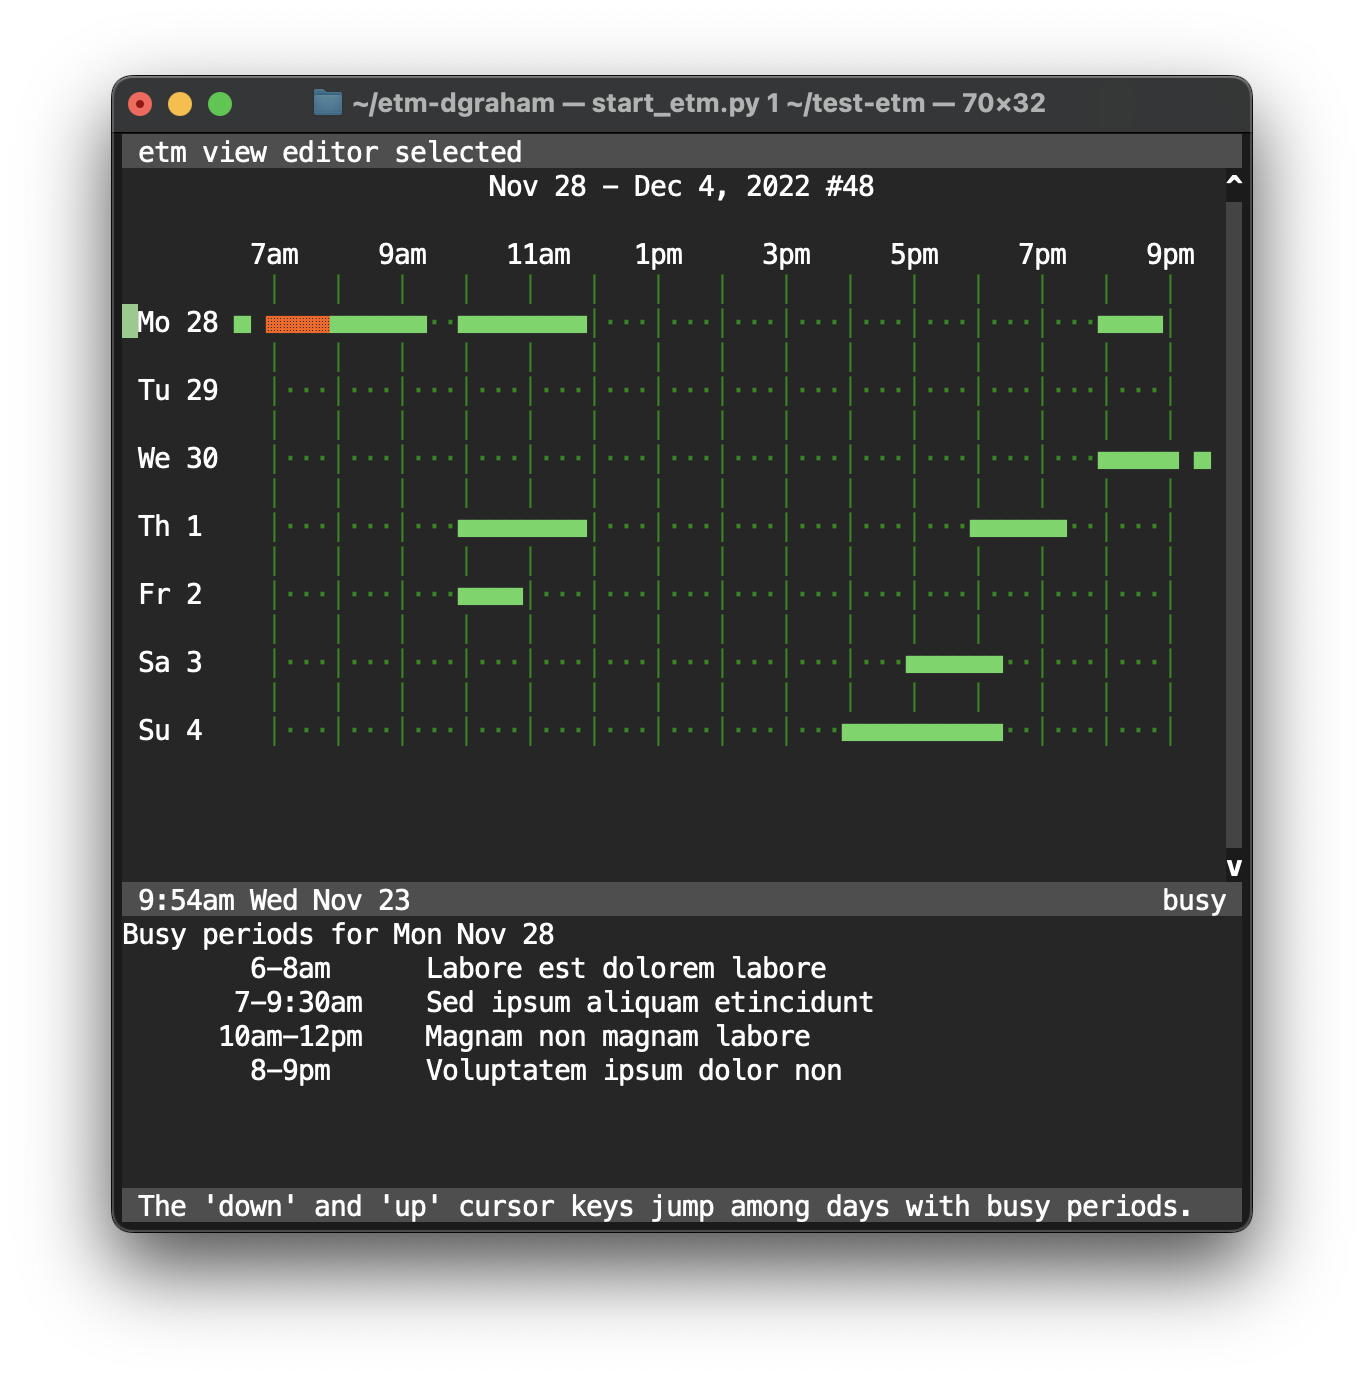
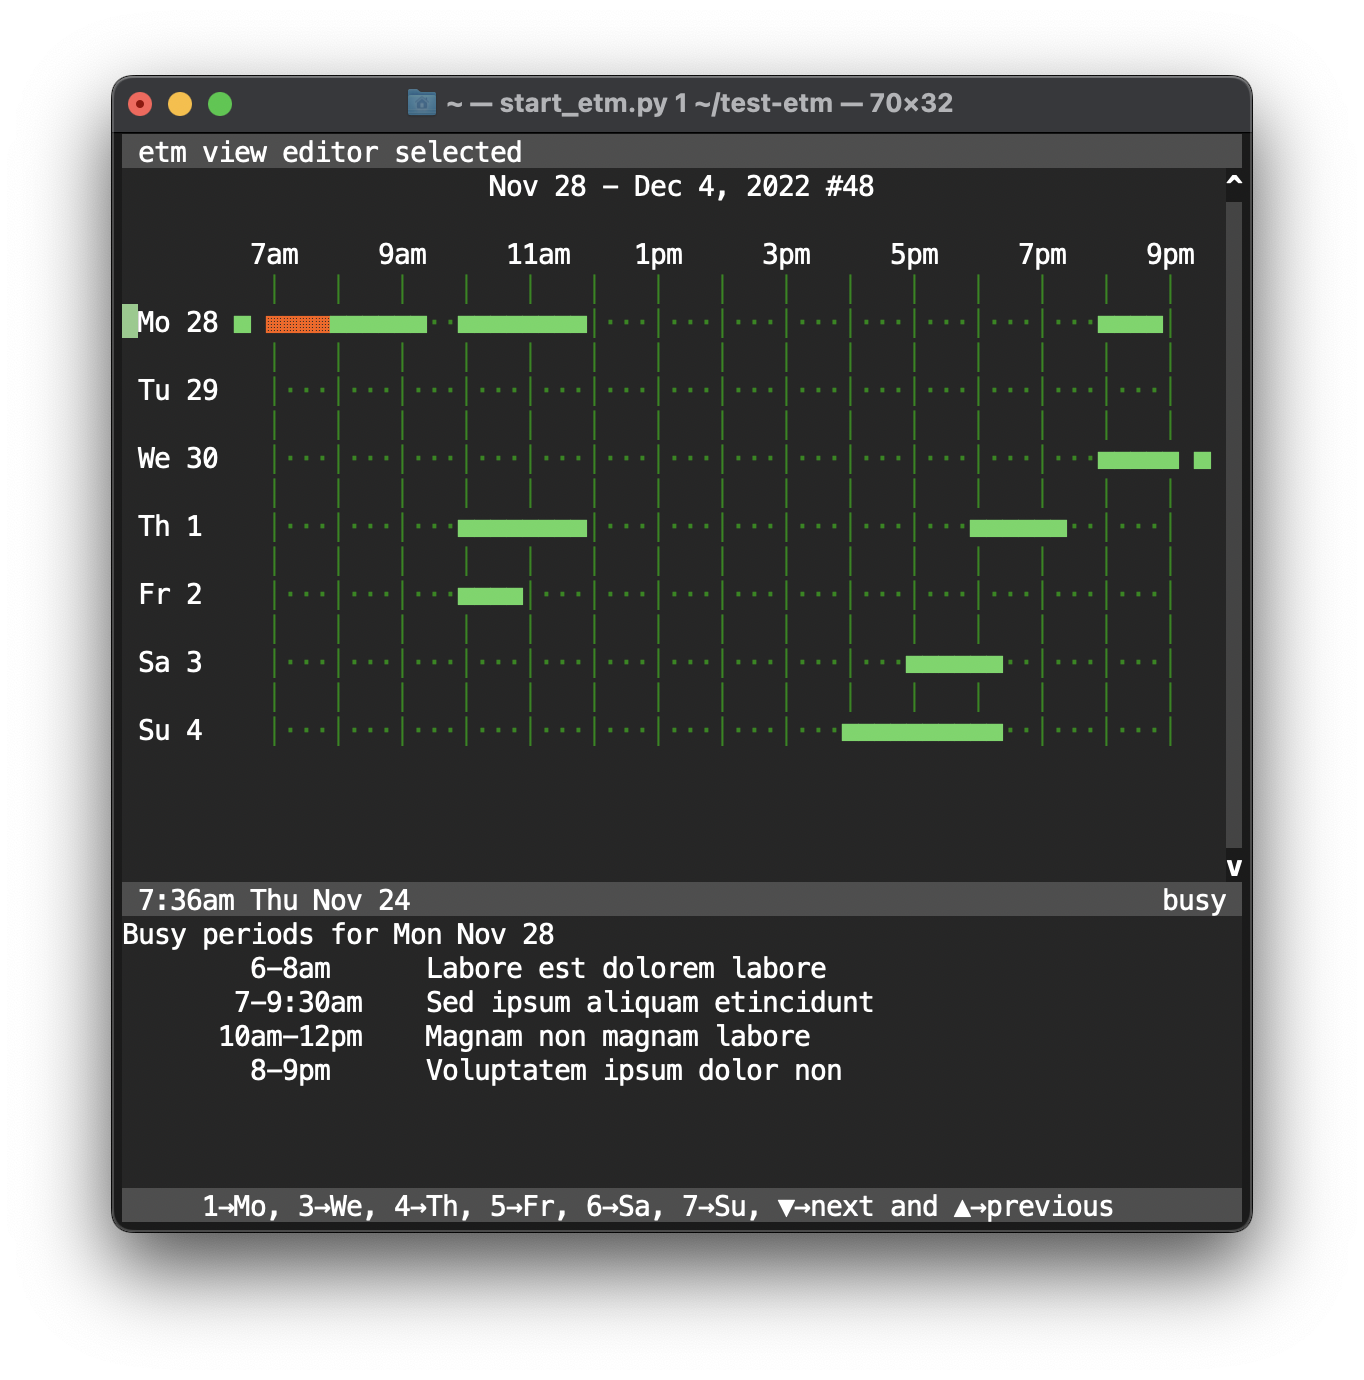
Busy view tweaks. Added hot keys for weekday numbers. Use locale appropriate weekday abbreviations.

diff --git a/etm/view.py b/etm/view.py
@@ -473,7 +473,7 @@ class ETMQuery(object):
     def info(self, a):
         # field 'a' exists
         item = dataview.db.get(doc_id=int(a))
-        return  f"{item_details(item, False)}"
+        return  item if item else f"doc_id {a} not found"
 
 
     def dt(self, a, b):
@@ -556,7 +556,6 @@ class ETMQuery(object):
             if not ok:
                 return False, test
             if isinstance(test, str):
-                # info
                 return False, test
             else:
                 items = dataview.db.search(test)
@@ -1415,7 +1414,7 @@ async def event_handler():
             if dataview.active_view == 'timers':
                 set_text(dataview.show_active_view())
             asyncio.ensure_future(save_timers())
-            logger.debug(f"sleeping for {wait} seconds in event_handler loop")
+            # logger.debug(f"sleeping for {wait} seconds in event_handler loop")
             get_app().invalidate()
             await asyncio.sleep(wait)
     except asyncio.CancelledError:
@@ -1477,12 +1476,12 @@ def get_statusbar_right_text():
 def openWithDefault(path):
     parts = [x.strip() for x in path.split(" ")]
     if len(parts) > 1:
-        logger.debug(f"path: {path}")
+        # logger.debug(f"path: {path}")
         res =subprocess.Popen([parts[0], ' '.join(parts[1:])], stdout=subprocess.DEVNULL, stderr=subprocess.DEVNULL)
         ok = True if res else False
     else:
         path = os.path.normpath(os.path.expanduser(path))
-        logger.debug(f"path: {path}")
+        # logger.debug(f"path: {path}")
         sys_platform = platform.system()
         if platform.system() == 'Darwin':       # macOS
             res = subprocess.run(('open', path), stdout=subprocess.DEVNULL, stderr=subprocess.DEVNULL)
@@ -1494,7 +1493,7 @@ def openWithDefault(path):
         # res = subprocess.run([cmd, path], check=True)
         ret_code = res.returncode
         ok = ret_code == 0
-        logger.debug(f"res: {res}; ret_code: {ret_code}")
+        # logger.debug(f"res: {res}; ret_code: {ret_code}")
     if ok:
         logger.debug(f"ok True; res: '{res}'")
     else:
@@ -1602,16 +1601,41 @@ busy_area = TextArea(
 
 width = shutil.get_terminal_size()[0] - 2
 # busy_times = "Use '⇧ ⇾' and '⇧ ⇽' to jump among the days with busy times.".center(width, ' ')
-busy_times = "The 'down' and 'up' cursor keys jump among days with busy periods.".center(width, ' ')
-no_busy_times = "There are no days with busy periods in this week.".center(width, ' ')
+# busy_times = "The 'down' and 'up' cursor keys jump among days with busy periods.".center(width, ' ')
 
 def get_busy_text():
-    return busy_times if dataview.busy_details else no_busy_times
+    return get_busy_text_and_keys(0)
+
+def get_busy_keys():
+    return get_busy_text_and_keys(1)
+
+def get_busy_text_and_keys(n):
+
+    weekdays = {
+            5:  f"1→{WA[1]}",
+            7:  f"2→{WA[2]}",
+            9:  f"3→{WA[3]}",
+            11: f"4→{WA[4]}",
+            13: f"5→{WA[5]}",
+            15: f"6→{WA[6]}",
+            17: f"7→{WA[7]}",
+            }
+    busy_details = dataview.busy_details
+    active_days = "  ".join([v for k, v in weekdays.items() if k in busy_details.keys()])
+    no_busy_times = "There are no days with busy periods this week.".center(width, ' ')
+    busy_times = wrap(f"Press the number of a weekday, [{weekdays[5]}, ..., {weekdays[17]}], to show the details of the busy periods from that day or press the ▼ (down) or ▲ (up) cursor keys to show the details of the next or previous day with busy periods.", indent=0)
+    # active_keys = f"active keys: {active_days}, ⬆  ▲ and ⬇ ".center(width, ' ')
+    active_keys = f"{active_days}  ▼→next  ▲→previous".center(width, ' ')
+
+    if n == 0: # text
+        return busy_times if dataview.busy_details else ""
+    else: # n=1, keys
+        return active_keys if dataview.busy_details else no_busy_times
 
 
 busy_container = HSplit([
     busy_area,
-    Window(FormattedTextControl(get_busy_text), style='class:status', height=1),
+    Window(FormattedTextControl(get_busy_keys), style='class:status', height=1),
     ], style='class:entry')
 
 query_bindings = KeyBindings()
@@ -2348,6 +2372,8 @@ def busy_view(*event):
     if dataview.busy_row:
         text_area.buffer.cursor_position = \
             text_area.buffer.document.translate_row_col_to_index(dataview.busy_row-1, 0)
+    else:
+        busy_area.text = get_busy_text()
 
 @bindings.add('c', filter=is_viewing)
 def completed_view(*event):
@@ -2425,6 +2451,53 @@ def set_view(view):
     item.use_items()
     set_text(dataview.show_active_view())
 
+def get_busy_day(d):
+    busy_details = dataview.busy_details
+    # logger.debug(f"d: {d}; {busy_details.keys()}")
+    r = 5 + 2*(d-1)
+    if not r in busy_details.keys():
+        return
+    # logger.debug(f"details: {d}->{r} {busy_details.get(r, '')}")
+    text_area.buffer.cursor_position = \
+        text_area.buffer.document.translate_row_col_to_index(r-1, 0)
+    busy_area.text = busy_details.get(r, get_busy_text())
+    dataview.busy_row = r
+
+
+@bindings.add('1', filter=is_busy_view & is_viewing)
+def get_busy_1(*event):
+    get_busy_day(1)
+
+
+@bindings.add('2', filter=is_busy_view & is_viewing)
+def get_busy_1(*event):
+    get_busy_day(2)
+
+
+@bindings.add('3', filter=is_busy_view & is_viewing)
+def get_busy_1(*event):
+    get_busy_day(3)
+
+
+@bindings.add('4', filter=is_busy_view & is_viewing)
+def get_busy_1(*event):
+    get_busy_day(4)
+
+
+@bindings.add('5', filter=is_busy_view & is_viewing)
+def get_busy_1(*event):
+    get_busy_day(5)
+
+
+@bindings.add('6', filter=is_busy_view & is_viewing)
+def get_busy_1(*event):
+    get_busy_day(6)
+
+
+@bindings.add('7', filter=is_busy_view & is_viewing)
+def get_busy_1(*event):
+    get_busy_day(7)
+
 
 @bindings.add('down', filter=is_busy_view & is_viewing)
 def next_busy(*event):
@@ -2441,7 +2514,7 @@ def next_busy(*event):
             break
     text_area.buffer.cursor_position = \
         text_area.buffer.document.translate_row_col_to_index(next_row-1, 0)
-    busy_area.text = busy_details.get(next_row, '')
+    busy_area.text = busy_details.get(next_row, get_busy_text())
     dataview.busy_row = next_row
 
 
@@ -2460,7 +2533,7 @@ def previous_busy(*event):
             break
     text_area.buffer.cursor_position = \
         text_area.buffer.document.translate_row_col_to_index(next_row-1, 0)
-    busy_area.text = busy_details.get(next_row, '')
+    busy_area.text = busy_details.get(next_row, "")
     dataview.busy_row = next_row
 
 
@@ -2536,7 +2609,7 @@ def nextweek(*event):
     dataview.nextYrWk()
     dataview.busy_row = 0
     busy_details = dataview.busy_details
-    busy_area.text = ""
+    busy_area.text = '' # get_busy_text()
     # if busy_details:
     #     busy_area.text = busy_times
     # else:
@@ -2549,7 +2622,7 @@ def prevweek(*event):
     dataview.prevYrWk()
     dataview.busy_row = 0
     busy_details = dataview.busy_details
-    busy_area.text = ""
+    busy_area.text = '' # get_busy_text()
     # if busy_details:
     #     busy_area.text = busy_times
     # else:

diff --git a/etm/__main__.py b/etm/__main__.py
@@ -85,6 +85,7 @@ def main():
     logger.debug(f"ETMDB: {ETMDB}")
 
     from etm.model import about
+    from etm.model import wrap
     from etm.model import import_file
     from etm.model import write_back
     # from etm.model import RDict
@@ -139,6 +140,8 @@ def main():
 
 
     import etm.view as view
+    view.wrap = wrap
+    view.WA = WA
     view.beginbusy = beginbusy
     view.FINISHED_CHAR = FINISHED_CHAR
     view.UPDATE_CHAR = UPDATE_CHAR
@@ -164,7 +167,6 @@ def main():
     view.etmhome = etmhome
     view.datetime_calculator = datetime_calculator
     view.about = about
-    view.wrap = model.wrap
     view.format_time = format_time
     view.format_datetime = format_datetime
     view.format_duration = format_duration

diff --git a/utilities/make_examples.py b/utilities/make_examples.py
@@ -82,7 +82,6 @@ for _ in range(num_konnections):
     konnections.append(f"@k {client_id[client]} {tmp}")
 
 
-
 print("! IMPORTANT: To delete these examples @d quit etm, delete db.json and restart etm")
 
 for _ in range(num_items):

diff --git a/README.md b/README.md
@@ -491,9 +491,11 @@ The display for each reminder shows the itemtype and summary column on the left 
 
 ### Weekly Views {#weekly-views}
 
-The _weekly_ agenda, busy and completed views display one week at a time and are *synchronized* so that all three views always display the same week. Left or right cursor keys go backward or forward a week at a time and the pressing the space bar jumps to the week containing the current day. You can also press "J" and enter a date to jump to the week containing the date.
+The _weekly_ agenda, busy and completed views display one week at a time and are *synchronized* so that all three views always display the same week. Press the ▶ (right) or ◀ (left) cursor keys go forward or backward a week at a time or press the space bar to jump to the week containing the current day. You can also press "J" and enter a date to jump to the week containing the date.
 
-In both agenda and completed views, only days with scheduled reminders are listed. If nothing is scheduled for the entire week, then "Nothing scheduled" is displayed. In busy view, only days that have events with busy times (@e and/or @w entries) are displayed. Use the "down" and "up" cursor keys to jump among the days with busy times.
+In both agenda and completed views, only days with scheduled reminders are listed. If nothing is scheduled for the entire week, then "Nothing scheduled" is displayed.
+
+In busy view, only days that have events with busy times (@e and/or @w entries) are displayed. Press the number of the weekday, [1→Mon, ..., 7→Sun], to show the details of the busy periods from that day or press the ▼ (down) or ▲ (up) cursor keys to show the details of the next or previous day with busy periods.
 
 The normal agenda listing for a week day:
 
